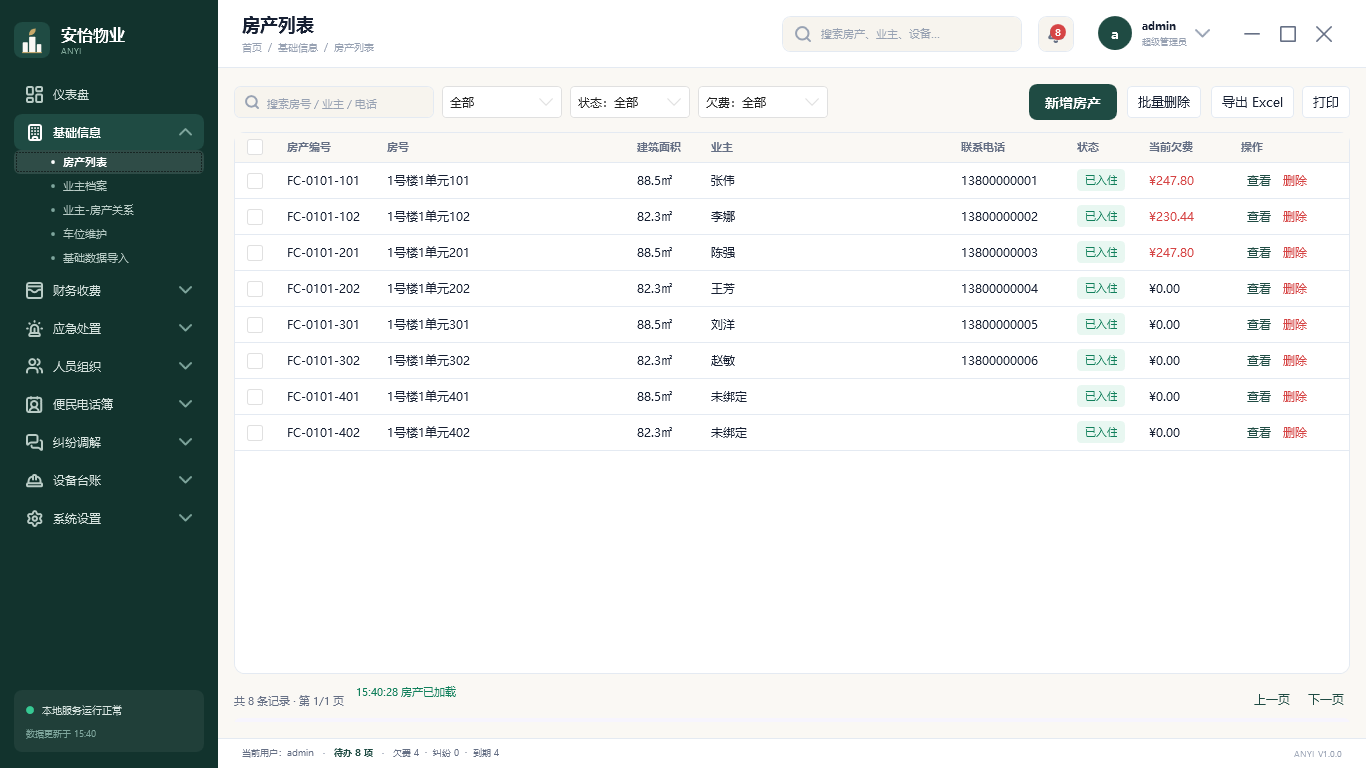
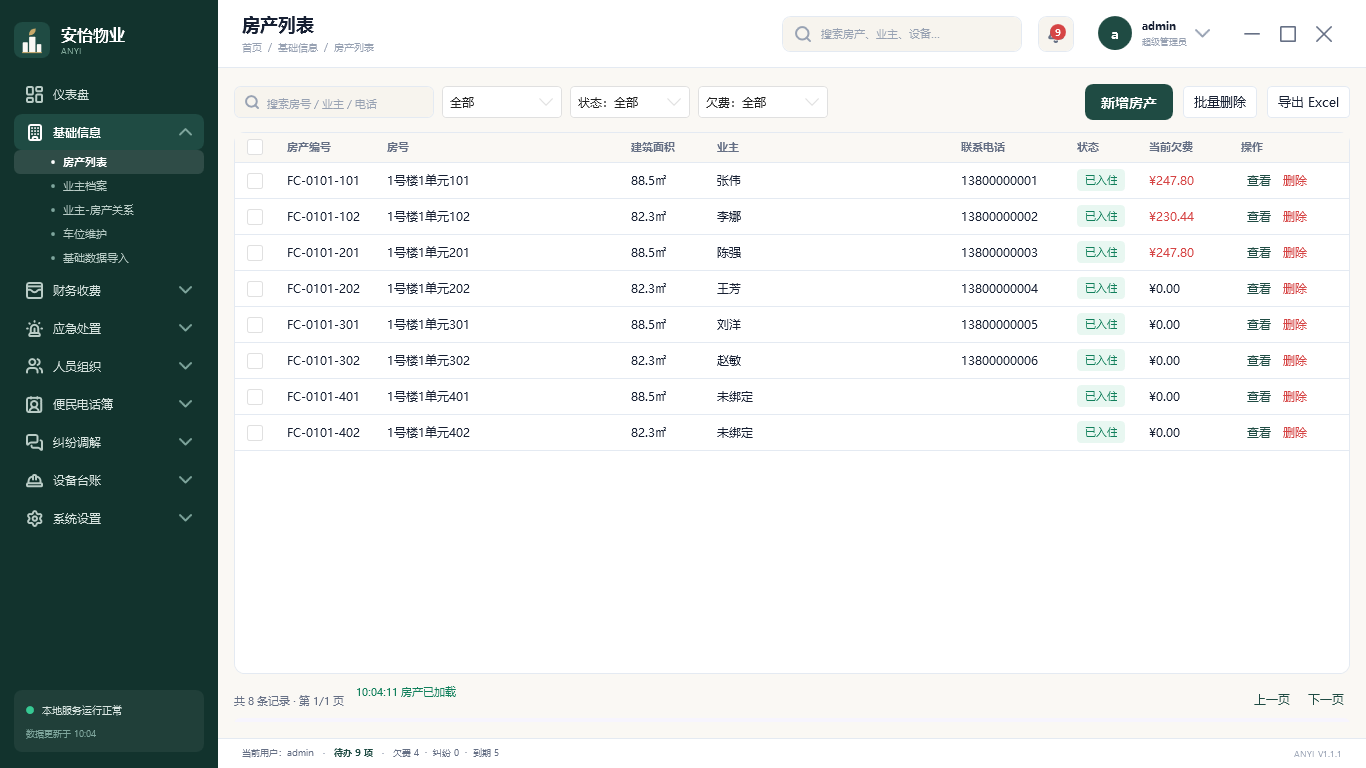
v1.1.1迭代：版本元数据同源治理（版本真值单一来源 + 程序集／安装包／界面／健康检查／对外文档统一 1.1.1）

diff --git a/PropertyManagement.Client/Views/LoginWindow.xaml b/PropertyManagement.Client/Views/LoginWindow.xaml
@@ -37,7 +37,7 @@
                             <RowDefinition Height="*" />
                             <RowDefinition Height="Auto" />
                         </Grid.RowDefinitions>
-                        <!-- M8-D8-0 徽记对齐（2026-09-14）：唯一源 docs\brand\anyi-logo-square-color.svg（与 app.ico 同源）
+                        <!-- M8-D8-0 徽记对齐（2026-09-14）：唯一源 docs\prototypes\品牌logo\brand\anyi-logo-square-color.svg（与 app.ico 同源）
                              采用母版 240×240 网格坐标 + LayoutTransform 等比缩放至 52×52（52/240 = 0.2166667），
                              几何/色值/叶片与母版逐值一致；已移除原「半透明白描边容器」（与 exe 图标 1:1） -->
                         <Border Grid.Row="0" Width="240" Height="240"
@@ -79,7 +79,8 @@
                             </StackPanel>
                         </Border>
 
-                        <TextBlock Grid.Row="5" Text="DESKTOP CLIENT  ·  V1.0"
+                        <!-- v1.1.1 版本元数据同源治理：版本串改为绑定（原硬编码 V1.0 已过期） -->
+                        <TextBlock Grid.Row="5" Text="{Binding VersionText}"
                                    Foreground="#BFD8D2" FontSize="10" />
                     </Grid>
                 </Border>

diff --git a/PropertyManagement.Client/Views/MainWindow.xaml b/PropertyManagement.Client/Views/MainWindow.xaml
@@ -197,7 +197,7 @@
                     </StackPanel>
                 </Border>
 
-                <!-- 栏栏品牌（M8-D8-0 徽记对齐 2026-09-14）：唯一源 docs\brand\anyi-logo-square-color.svg
+                <!-- 栏栏品牌（M8-D8-0 徽记对齐 2026-09-14）：唯一源 docs\prototypes\品牌logo\brand\anyi-logo-square-color.svg
                      母版 240×240 网格 + LayoutTransform 等比缩放至 36×36（36/240 = 0.15），含金色叶片 -->
                 <StackPanel DockPanel.Dock="Top" Orientation="Horizontal" Margin="0,0,0,18">
                     <Border Width="240" Height="240" Background="{StaticResource PrimaryBrush}" CornerRadius="54">

diff --git a/Build/AppVersionInfo.cs b/Build/AppVersionInfo.cs
@@ -1,0 +1,41 @@
+using System;
+using System.Reflection;
+
+namespace PropertyManagement
+{
+    /// <summary>
+    /// 运行期版本读取（唯一入口，v1.1.1 起）：界面文案与健康检查统一取此处，
+    /// 值来自程序集特性，特性由 Build\ProductInfo.targets 按 Build\Version.props 生成。
+    /// </summary>
+    internal static class AppVersionInfo
+    {
+        /// <summary>三位展示版本（如 1.1.1）。</summary>
+        internal static readonly string Display = ResolveDisplay();
+
+        /// <summary>程序集版本（如 1.1.1.0），用于“关于/详情”类信息。</summary>
+        internal static readonly Version Assembly = typeof(AppVersionInfo).Assembly.GetName().Version;
+
+        /// <summary>界面版本串（如 ANYI  V1.1.1）。</summary>
+        internal static readonly string BrandLine = "ANYI  V" + Display;
+
+        private static string ResolveDisplay()
+        {
+            var assembly = typeof(AppVersionInfo).Assembly;
+            var attributes = assembly.GetCustomAttributes(typeof(AssemblyInformationalVersionAttribute), false);
+            if (attributes != null && attributes.Length > 0)
+            {
+                var informational = (AssemblyInformationalVersionAttribute)attributes[0];
+                if (!string.IsNullOrEmpty(informational.InformationalVersion))
+                {
+                    return informational.InformationalVersion;
+                }
+            }
+
+            // 兜底：程序集特性缺失时回落为程序集版本的前三位
+            var version = assembly.GetName().Version;
+            return version == null
+                ? "0.0.0"
+                : version.Major + "." + version.Minor + "." + version.Build;
+        }
+    }
+}

diff --git a/PropertyManagement.Client/ViewModels/ShellViewModel.cs b/PropertyManagement.Client/ViewModels/ShellViewModel.cs
@@ -139,9 +139,10 @@ namespace PropertyManagement.Client.ViewModels
             private set { SetProperty(ref _todoDetail, value); }
         }
 
+        /// <summary>界面版本串（v1.1.1 起改为同源读取：值来自程序集特性 ← Build\Version.props）。</summary>
         public string VersionText
         {
-            get { return "ANYI  V1.1.0"; }
+            get { return AppVersionInfo.BrandLine; }
         }
 
         /// <summary>侧栏系统状态条（原型：在线点 + 状态 + 数据更新时间）。</summary>

diff --git a/PropertyManagement.Client/ViewModels/LoginViewModel.cs b/PropertyManagement.Client/ViewModels/LoginViewModel.cs
@@ -26,6 +26,12 @@ namespace PropertyManagement.Client.ViewModels
         private SolidColorBrush _serviceStatusBrush = PendingBrush;
         private string _hintText;
 
+        /// <summary>登录页版本串（v1.1.1 起同源读取：消灭原先硬编码的「V1.0」）。</summary>
+        public string VersionText
+        {
+            get { return "DESKTOP CLIENT  ·  V" + AppVersionInfo.Display; }
+        }
+
         public string UserName
         {
             get { return _userName; }

diff --git a/PropertyManagement.Server/Api/HealthController.cs b/PropertyManagement.Server/Api/HealthController.cs
@@ -15,7 +15,8 @@ namespace PropertyManagement.Server.Api
             var data = new HealthResponse
             {
                 Service = "PropertyManagement.Server",
-                Version = "0.2.0-m2",
+                // v1.1.1 版本元数据同源治理：原硬编码 "0.2.0-m2"（M2 骨架期残留）改为同源读取
+                Version = AppVersionInfo.Display,
                 Status = "ok",
                 ServerTime = DateTime.Now
             };

diff --git a/AGENTS.md b/AGENTS.md
@@ -41,10 +41,68 @@ Invoke-WebRequest http://127.0.0.1:5210/api/v1/health
 - 契约层只放 DTO/枚举，业务实现不得进入 Contract；新依赖只选 net45/net46/netstandard2.0 兼容资产（Win7 红线）；
 - JSON 驼峰、枚举字符串序列化、统一信封 `ApiResponse<T>`、删除一律软删（`del_flag`）。
 
+## Versioning（版本控制：产品版本与文档版本）
+
+**全仓只有一个版本号：产品版本。** 文档不设独立版本号——不得再出现「产品版本 1.1.1 + 文档版本 v0.1」并存的写法。
+
+### 产品版本（唯一来源）
+
+- 唯一手写来源：`Build\Version.props` 的 `<AnyiVersion>`（三位，如 `1.1.1`）；程序集版本由它派生（`1.1.1.0`）；
+- 源码、界面、脚本、文档**不得硬编码版本串**；运行期统一经 `Build\AppVersionInfo.cs` 读取（`ShellViewModel`／`LoginViewModel`／`GET /health` 即此口径）；
+- 生成物 `obj\<配置>\ProductInfo.g.cs` 不纳管；版本相关只保留 `Version.props`、`ProductInfo.targets`、`AppVersionInfo.cs` 三个源文件；
+- 打包只走 `Installer\build-setup.ps1`（默认取版本真值，内含「产物新鲜度」与「版本元数据」两道闸门，不得用 `-SkipBuild` 绕过）；
+- 改版本 = 改一处 + 一条命令：改 `Version.props` → 编译 → `build-setup.ps1`；升版后同步对外文档（`documentation\` 各文档「适用版本」与 `README.md`「当前版本」）。
+
+### 文档版本（不设版本号）
+
+- 抬头只写「〔制品／编号 ＋〕状态 ＋ 产品版本 ＋ 日期」（字段口径见下「文档元信息块」）；**不得写「文档版本 vX.Y」**；
+- 文件名**不带文档版本号**（不得出现 `（v0.1）` 一类后缀）；迭代计划可按**产品版本**归属（目录名或文件名前缀，如 `…\安怡物业管理系统v1.1.1\v1.1.1-xxx计划.md`）；确需区分轮次时用日期或序号；
+- 修订痕迹写在文末**修订记录表**（`docs\` 不纳入版本控制，无法依赖 git 历史）；
+- 历史引用（`v1.1.0 第 18 轮`、`V1.0.0 旧模板`）保留，但不得写入抬头当作当前版本；
+- 变更留痕统一用 `CHG-<产品版本>-NN`（编号，不是第二个版本号）。
+
+### 文档元信息块（抬头）
+
+**抬头只回答三问**：这是什么（制品／编号）→ 什么状态 → 属于哪个产品版本、什么时候定的。读一段话不是抬头的职责，解释与出处放正文。
+
+**形态**：`>` 块引用，**一行**；`键：值` 成对，分隔符用全角 `｜`，键名固定中文；不加粗、不带链接与 emoji——保证纯文本可解析、diff 干净。
+
+**字段白名单（顺序固定，不得增删）**
+
+| 文档类型 | 抬头 |
+|---|---|
+| 制品（`AM-*`／`DM-*`）与变更记录 | `制品 ｜ 状态 ｜ 产品版本 ｜ 日期`（变更记录用 `编号`） |
+| 计划／迭代／目录／评审／规格／基线／README | `状态 ｜ 产品版本 ｜ 日期` |
+
+示例：`> 制品：AM-02 ｜ 状态：已冻结 ｜ 产品版本：1.0.0 ｜ 日期：2026-08-26`
+
+**取值约束**
+
+- `状态` 用封闭词表六项：草案／已确认／执行中／已完成／已封存／已冻结；
+- `产品版本` 只取 `Build\Version.props` 的值（历史归档用归档批次号，如 `1.0.0`），不得自造；
+- `日期` 为 `YYYY-MM-DD`，写**该状态的确立日**，不是「最后打开日」。
+
+**其余元信息 → 正文首节「适用与依据」**：`依据`／`来源`／`上游输入`／`前置状态`／`归档前状态`／`说明`／`输入`／`修订`／`关联`／`迁移` 等非白名单字段，一律写成该节条目（`- **依据**：…`），紧随抬头、位于第一个 `##` 章节之前。
+
+**不得出现**：作者类（制定人／执行人／验收人／审批人／记录人／确认人）与纯流程信息（修订次数一类）**直接删除**；文档版本（`v0.1` 一类）与敏感信息（账号／令牌／内网路径）更不得出现。能从别处推导的留给 `git log`。
+
+**本仓例外**：`docs\` 不纳入版本控制、无 git 历史可查 → 抬头**必须手写日期**，修订痕迹写文末**修订记录表**（追加式，不删行；`CHG-*` 变更记录本身即记录，不加表）。
+
+**阈值**：抬头 **≤2 行、≤200 字符、单行 ≤160 字符**。实施记录：2026-09-18 对 `models`／`项目开发计划封存文档V1.0.0`／`优化迭代`／`前端原型` 共 96 份完成对齐（一次性治理脚本与快照已随治理结束清理；新增文档按本节规则手写即可，自检项：结构／取值／阈值／章节／作者字段／正文零改动／信息零丢失／死链）。
+
+> 业界参照（选型依据）：PEP 1（必需／可选字段分层 + 封闭状态词表）、MADR（状态与决策者分离）、Kubernetes KEP（`creation-date`／`last-updated`／`superseded-by` 前置块）、IETF RFC／Internet-Draft（类别 + 发布日 + 失效期）、Dublin Core／HTML `<meta>`（通用元素集）、ISO 文件控制（唯一标识 + 状态 + 修订记录）。共性结论：**字段少而固定、取值封闭、可推导的不手写、留痕追加不改行**。
+
+### 例外
+
+- 内部资产（模型、原型）确需独立版本时，集中登记在 `docs\README.md`，且目录名／文件名／文档抬头三处必须一致。
+
 ## Testing Guidelines（测试规范）
 
 - 领域规则优先覆盖；测试类命名 `XxxTests`，方法 `方法名_场景_期望`（如 `Pay_OverAmount_Rejects`）；
 - 单元测试使用 `%TEMP%` 下的隔离库，不得读写 `%ProgramData%\PropertyManagement`；
+- **测试资产按属性归入 `tmp\测试目录\` 对应子目录**（`临时测试`／`单元测试`／`集成测试`／`系统测试`／`验收测试`／`测试工具`），不得散落在 `tmp\` 根或仓库其它位置；各类口径见 `tmp\测试目录\README.md`；
+- `测试工具\` 只放跨阶段共用的外部可执行文件与配置（如 `nuget.exe`），不放脚本逻辑；非测试资产（`docs\`、`tmp\品牌设计资产\`）不进本目录；
+- 移动测试资产须同步改引用（如 `PropertyManagement.Tests\run-tests.ps1`、`Installer\build-setup.ps1`）并在 `tmp\测试目录\README.md` 引用关系表登记；
 - 提交前须保证编译通过且测试全绿。
 
 ## Commit & Pull Request Guidelines（提交规范）

diff --git a/documentation/deployment/开发者部署操作指南.md b/documentation/deployment/开发者部署操作指南.md
@@ -1,6 +1,6 @@
 # 开发者部署操作指南
 
-> 适用版本：安怡物业管理系统 1.0.0
+> 适用版本：安怡物业管理系统 1.1.1
 
 本指南面向"拿到源码要把系统跑起来、并打出安装包"的开发者，从环境准备一路写到打包发布与故障排查。所有命令均已在 **Windows 10（64 位）**实测可用；**Win7 SP1 是立项要求的兼容平台，但尚未在真机验证**。
 
@@ -99,7 +99,7 @@ C:\ProgramData\PropertyManagement\
 
 | 项 | 说明 |
 |---|---|
-| 首次建库 | 首次启动自动执行 schema 与增量迁移，当前 **schema 版本 32**；旧库按版本逐级迁移，幂等可重跑 |
+| 首次建库 | 首次启动自动执行 schema 与增量迁移，当前 **schema 版本 44**；旧库按版本逐级迁移，幂等可重跑 |
 | `DbDirectory` | 留空使用 `%ProgramData%\PropertyManagement`；联调时可指向临时目录，避免污染本机数据 |
 | `DevSeedEnabled` | 演示造数开关（源码默认 `false`）。置 `true` 时会在**空库**首次建库后写入演示数据（房产、业主、账单、设备、员工、应急场景等）用于界面联调；**正式环境必须保持 `false`** |
 | 数据安全 | 严禁把库文件放在安装目录（Program Files 不可写）；删除一律软删，保留 `del_flag` 痕迹 |
@@ -144,11 +144,14 @@ powershell -NoProfile -ExecutionPolicy Bypass -File Installer\build-setup.ps1
 
 | 参数 | 用途 |
 |---|---|
-| `-Version 1.0.0` | 注入版本串（影响包名与 `Add/Remove Programs` 显示） |
+| `-Version 1.1.1` | 注入版本串（影响包名、`Add/Remove Programs` 显示与安装包属性）；**默认取 `Build\Version.props` 的值**，显式传值与版本真值不一致时会直接失败 |
+| `-AllowVersionOverride` | 显式允许 `-Version` 覆盖版本真值（仅在临时验证场景使用，正常发版请改 `Build\Version.props`） |
 | `-SkipBuild` | 跳过 MSBuild 复用现有产物（会触发**产物新鲜度闸门**校验） |
 | `-Rehearsal` | 生成"彩排版"安装包：非提权安装到 `tmp\` 目录、不写自启项、不建桌面快捷方式，用于在普通用户下验证打包树可运行 |
 
 > **产物新鲜度闸门**：脚本会按项目比对「最新源码时间」与「产物构建时间」，若源码更新而产物未重编，会直接失败并提示去掉 `-SkipBuild`——避免把旧代码打进安装包。
+>
+> **版本元数据闸门（v1.1.1 起）**：脚本会校验编译产物的 `文件版本 / 产品版本 / 产品名称` 与本次打包版本完全一致，不一致直接失败——避免出现「安装包是 1.1.1、里面装的却是别的版本」或「产物没有版本信息」的情况。
 
 **3) 产物与校验**
 
@@ -159,6 +162,31 @@ powershell -NoProfile -ExecutionPolicy Bypass -File Installer\build-setup.ps1
 | `output\...-构建记录.txt` | 版本、时间、ISCC 路径、SHA256、打包条目数等 |
 
 交付前建议自行安装一次：安装目录 `C:\Program Files\PropertyManagement`（`Client\` 与 `Server\` 并列）、数据目录 `C:\ProgramData\PropertyManagement`，卸载默认保留数据。
+
+**4) 版本口径与改版流程（v1.1.1 起）**
+
+产品版本**只有一个手写来源**：`Build\Version.props`。
+
+| 项 | 值 | 来源 |
+|---|---|---|
+| 展示版本（界面文案 / 健康检查 / 安装包文件名 / 产品版本） | `1.1.1` | `Version.props` 的 `AnyiVersion` |
+| 程序集版本（`AssemblyVersion` / `AssemblyFileVersion`） | `1.1.1.0` | `AnyiVersion` + `.0` |
+| 文件说明（FileDescription） | `安怡物业管理系统 客户端` 等 | `ProductInfo.targets` 按程序集名映射 |
+
+实现方式：三个工程各一行 `<Import Project="..\Build\ProductInfo.targets" />`，由该目标在编译前生成
+`obj\<配置>\ProductInfo.g.cs`（生成物不纳入版本控制）；运行期统一经 `Build\AppVersionInfo.cs` 读取
+（客户端登录页与主界面、后端健康检查同源）。
+
+**改版本只需两步**：
+
+```powershell
+# 1) 改 Build\Version.props 的 <AnyiVersion>（唯一改动点）
+# 2) 打包（版本自动带入编译与安装包）
+powershell -NoProfile -ExecutionPolicy Bypass -File Installer\build-setup.ps1
+```
+
+自检脚本（可选）：`tmp\v111\verify-version-info.ps1` 会断言 Debug/Release 产物的
+文件版本、产品版本、产品名称、公司、说明是否齐全且与版本真值一致。
 
 ## 八、常见故障排查
 

diff --git a/documentation/api/API接口契约.md b/documentation/api/API接口契约.md
@@ -1,6 +1,6 @@
 # API 接口契约
 
-> 适用版本：安怡物业管理系统 1.0.0 ｜ 基址：`http://127.0.0.1:5210/api/v1`（仅绑定回环地址）
+> 适用版本：安怡物业管理系统 1.1.1 ｜ 基址：`http://127.0.0.1:5210/api/v1`（仅绑定回环地址）
 > 契约代码：`PropertyManagement.Contract`（前后端同源引用，DTO/枚举/错误码）
 ## 一、通用规范
 
@@ -53,6 +53,22 @@
   - **软删留痕与唯一性**：楼栋/单元/房产/账单的唯一约束均为 `del_flag = 0` 部分唯一索引，软删留痕后可重建同键；唯一约束冲突返回 `40900`（HTTP 409）并给出可读提示；
 - 导出：创建导出任务（写 `t_export_log`/`t_report_log`）后返回记录，文件经下载端点获取；
 - 文件下载端点：`GET /{group}/files/{logId}` 返回文件流（Content-Disposition 携带文件名）。
+
+### 1.7 服务健康检查与版本
+
+- `GET /health`（免鉴权）返回 `{ code, message, data: { service, version, status, serverTime } }`；
+- **`version` 为服务端真实程序集版本**（v1.1.1 起）：取值来自程序集特性，而特性由唯一版本源
+  `Build\Version.props` 在编译期生成，不再是手工维护的字符串；
+- 因此「安装包版本 / 程序集文件版本 / 界面版本串 / 健康检查 version」四处取值恒等，
+  现场排查可一条命令确认版本：
+
+```powershell
+Invoke-RestMethod http://127.0.0.1:5210/api/v1/health | Select-Object -ExpandProperty data
+```
+
+```json
+{ "service": "PropertyManagement.Server", "version": "1.1.1", "status": "ok", "serverTime": "2026-09-18T10:24:05+08:00" }
+```
 
 ## 二、60 用例 → 端点映射表
 

diff --git a/documentation/legal/品牌与授权说明.md b/documentation/legal/品牌与授权说明.md
@@ -1,6 +1,6 @@
 # 品牌与授权说明
 
-> 适用版本：安怡物业管理系统 1.0.0
+> 适用版本：安怡物业管理系统 1.1.1
 
 本说明用于说明本项目的品牌素材来源、字体授权与开源许可关系，供使用方与二次开发者核对。
 
@@ -9,7 +9,7 @@
 | 项 | 内容 |
 |---|---|
 | 产品名称 | 安怡物业管理系统（界面简称「安怡物业」） |
-| 英文与版本串 | `ANYI` ｜ `ANYI  V1.0.0` |
+| 英文与版本串 | `ANYI` ｜ `ANYI  V1.1.1`（客户端界面版本串由程序集版本同源生成，随发版自动更新） |
 | 徽记构成 | 方圆容器（圆角 54/240）＋ 三栋楼宇天际线 ＋ 金色地平线 ＋ 金色叶片；语义为「安心托付 · 宜居社区」 |
 | 配色 | 深青绿 `#1F4B43`、暖金 `#C8A96A`、米白 `#FAF8F4` |
 | 锁版 | 横版与方形各含彩色、单色、反白，共 4 套（另附反白版），并提供 `app.ico` 六尺寸（16/32/48/64/128/256） |
@@ -57,3 +57,4 @@
 | 版本 | 日期 | 说明 |
 |---|---|---|
 | v1.0 | 2026-09-15 | 首次发布：品牌素材构成、字体授权（SIL OFL 1.1 与转曲说明）、原创性与参考作品差异自查、与 MIT 许可的关系 |
+| v1.1 | 2026-09-18 | 对外文档版本号统一对齐至 V1.1.1；版本串口径改为 `ANYI  V1.1.1`（与客户端界面同源） |

diff --git a/README.md b/README.md
@@ -4,7 +4,7 @@
 
 面向中小型住宅小区与商住项目的**单机部署**物业收费与台账管理桌面系统：WPF 客户端 + 本地后端服务，业务数据全部保存在本机，不依赖外部服务器与互联网，适合内网或离线环境。
 
-当前版本 **1.0.0** ｜ 平台 **Windows 7 SP1 及以上** ｜ 运行时 **.NET Framework 4.8** ｜ 许可证 **MIT**
+当前版本 **1.1.1** ｜ 平台 **Windows 7 SP1 及以上** ｜ 运行时 **.NET Framework 4.8** ｜ 许可证 **MIT**
 
 ![仪表盘](documentation/images/02-dashboard.png)
 

diff --git a/documentation/features/功能说明.md b/documentation/features/功能说明.md
@@ -1,6 +1,6 @@
 # 功能说明（业务用例）
 
-> 适用版本：安怡物业管理系统 1.0.0 ｜ 覆盖 60 个业务用例
+> 适用版本：安怡物业管理系统 1.1.1 ｜ 覆盖 60 个业务用例
 ## 一、编号规则
 
 用例编号 = `UC-模块-序号`，模块码：INF 基础信息、FIN 财务收费、EMG 应急处置、ORG 人员组织、TEL 电话簿、DIS 纠纷调解、EQP 设备资产、COM 公共。
